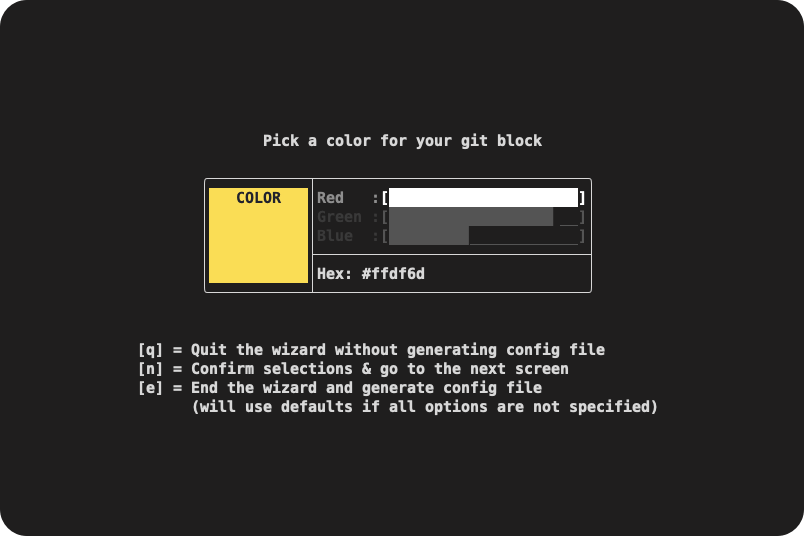
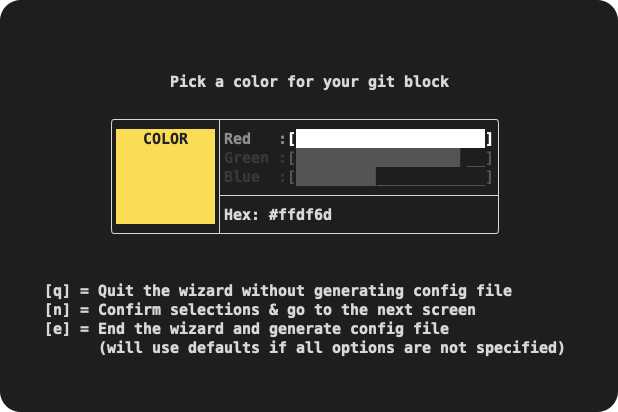
readme adjustments

Changed region(s): [[0.1845, 0.1748, 0.7994, 0.5825], [0.0615, 0.6408, 0.9223, 0.8738]]

diff --git a/README.md b/README.md
@@ -4,9 +4,9 @@ A visual wizard to help users set up and customize their [Oh-My-Posh](https://gi
 
 <p aligh="center">
   <img src="https://github.com/SARRAF-5757/OMP-Wizard/blob/main/images/color-modes.png?raw=true" alt="color-modes"/>
-  <img src="https://github.com/SARRAF-5757/OMP-Wizard/blob/main/images/main-screen.png?raw=true" alt="main-screen"/>
-  <img src="https://github.com/SARRAF-5757/OMP-Wizard/blob/main/images/color-picker.png?raw=true" alt="color-picker"/>
-  <img src="https://github.com/SARRAF-5757/OMP-Wizard/blob/main/images/choose-diamond.png?raw=true" alt="choose-diamond"/>
+  <img src="https://github.com/SARRAF-5757/OMP-Wizard/blob/main/images/main-screen.png?raw=true" alt="main-screen" width="50%"/>
+  <img src="https://github.com/SARRAF-5757/OMP-Wizard/blob/main/images/color-picker.png?raw=true" alt="color-picker" width="50%"/>
+  <img src="https://github.com/SARRAF-5757/OMP-Wizard/blob/main/images/choose-diamond.png?raw=true" alt="choose-diamond" width="50%"/>
 </p>
 
 # Getting Started
